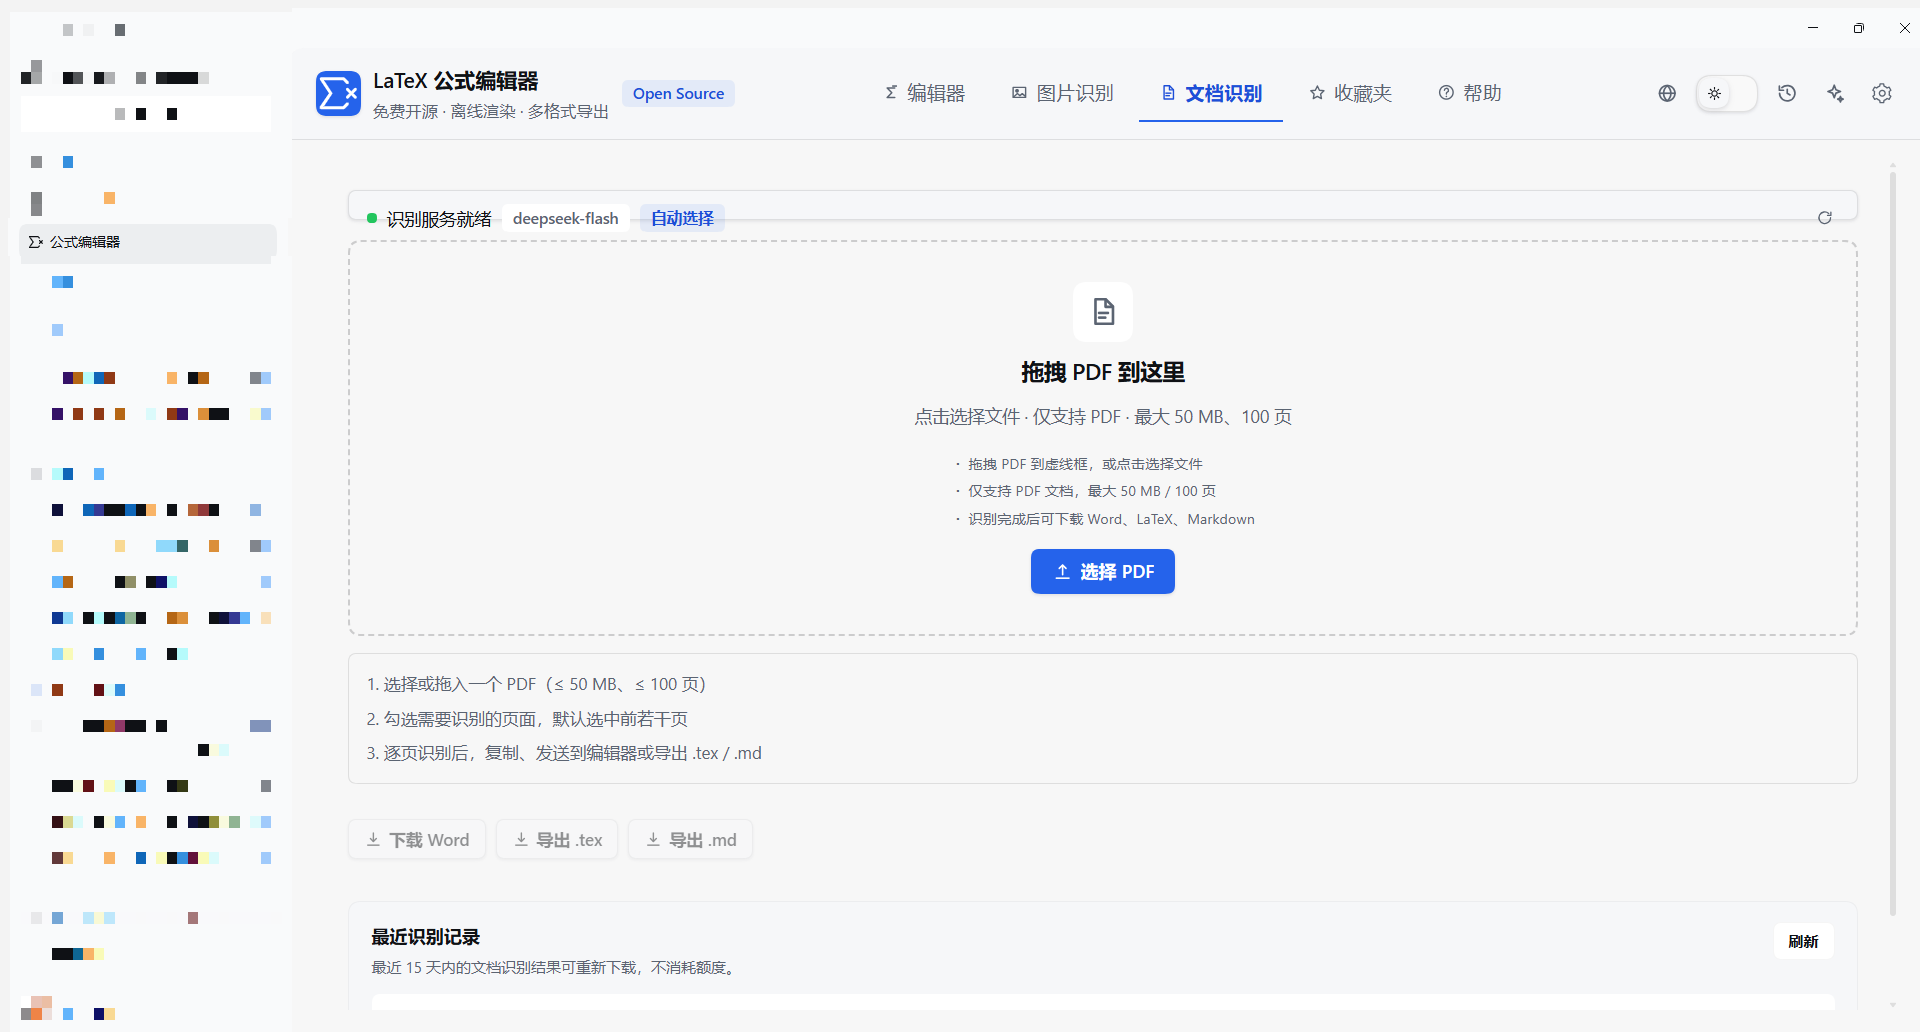
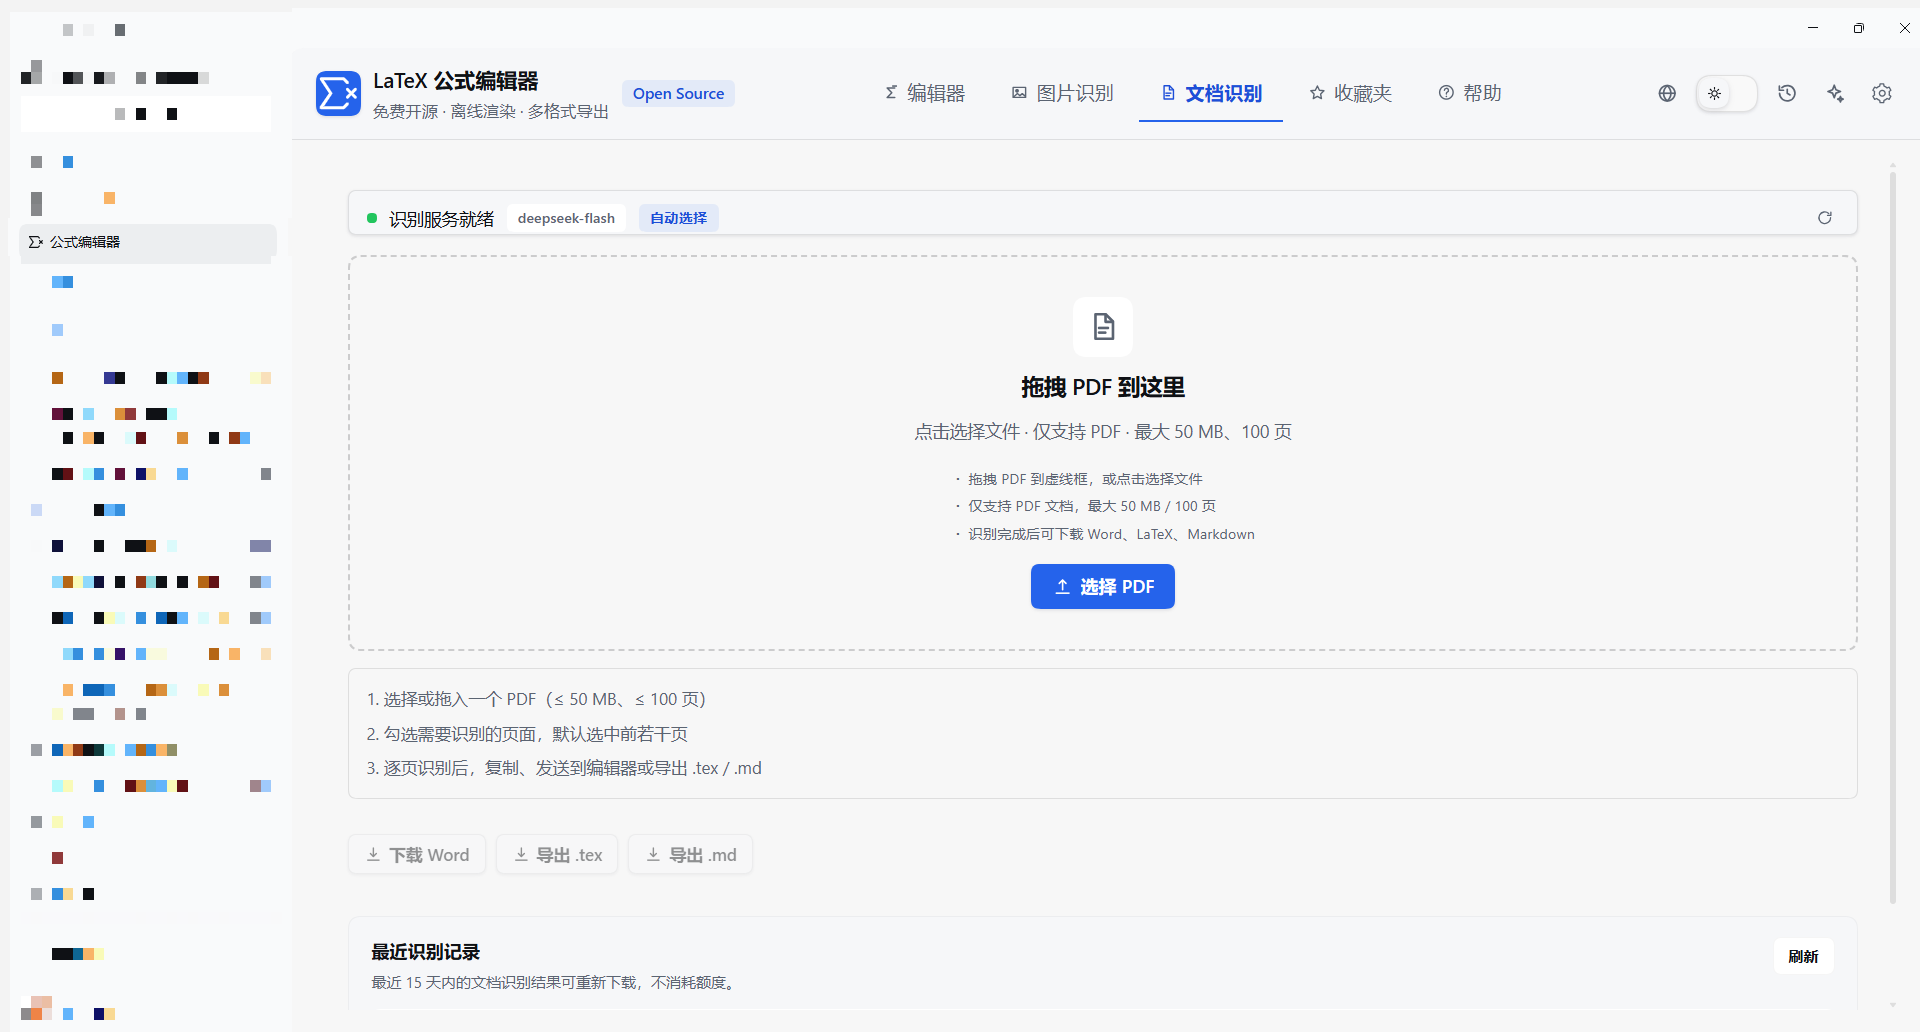
fix(ocr): padding-based status strip so vertical gaps match at every UI scale; refresh doc-ocr screenshot

diff --git a/lib/56-recognition-panels.js b/lib/56-recognition-panels.js
@@ -2137,12 +2137,15 @@
 
 .lx-ocr-status{
   display:flex;align-items:center;gap:10px;flex-wrap:wrap;
-  min-height:36px;padding:7px 12px;border:1px solid var(--dsw-alias-border-l1);border-radius:10px;
+  padding:10px 14px;border:1px solid var(--dsw-alias-border-l1);border-radius:10px;
   background:var(--dsw-alias-bg-layer-1);
-  font-size:12px;color:var(--dsw-alias-label-secondary);
+  font-size:12px;line-height:1.45;color:var(--dsw-alias-label-secondary);
 }
-.lx-ocr-status .lx-badge{height:22px;padding:0 9px;font-size:11.5px;flex:none;line-height:22px;}
-.lx-ocr-status__label{flex:none;}
+.lx-ocr-status__dot{width:7px;height:7px;border-radius:50%;background:var(--dsw-alias-border-l2);flex:none;}
+.lx-ocr-status__dot--ok{background:var(--dsw-alias-state-success-primary);}
+.lx-ocr-status__dot--err{background:var(--dsw-alias-state-error-primary);}
+.lx-ocr-status__label{flex:none;font-size:12.5px;font-weight:500;line-height:1.45;color:var(--dsw-alias-label-primary);}
+.lx-ocr-status .lx-badge{height:auto;padding:3px 9px;font-size:11.5px;line-height:1.35;flex:none;}
 .lx-ocr-status__refresh{margin-left:auto;flex:none;}
 .lx-ocr-status__dot{width:7px;height:7px;border-radius:50%;background:var(--dsw-alias-border-l2);flex:none;}
 .lx-ocr-status__dot--ok{background:var(--dsw-alias-state-success-primary);}
